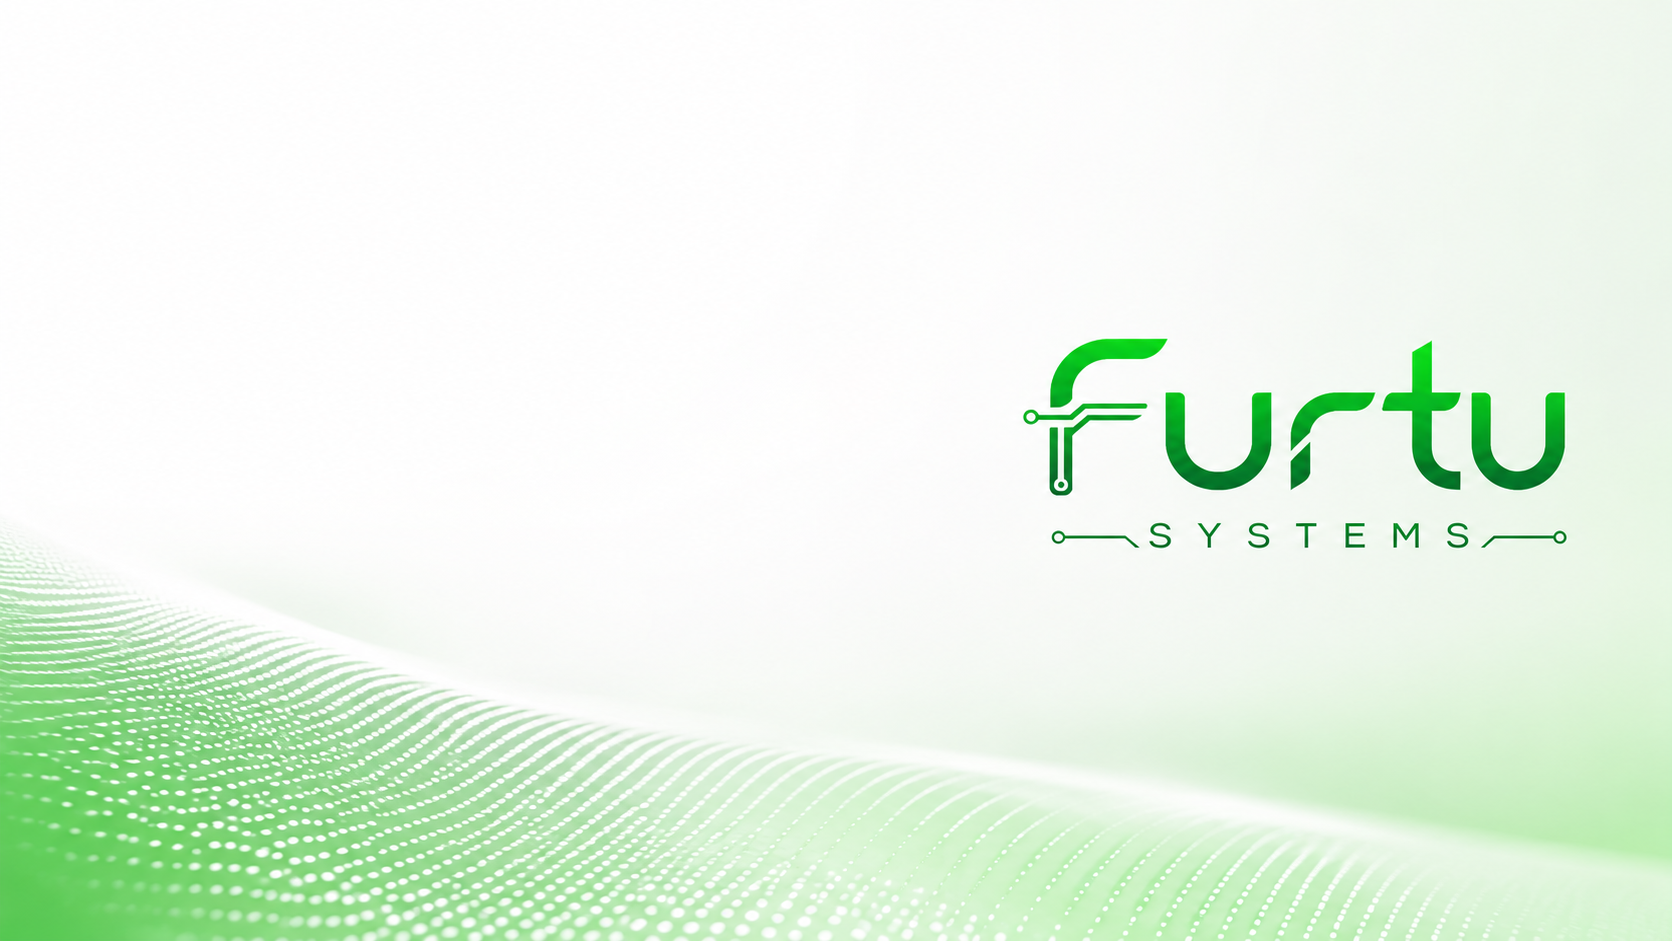
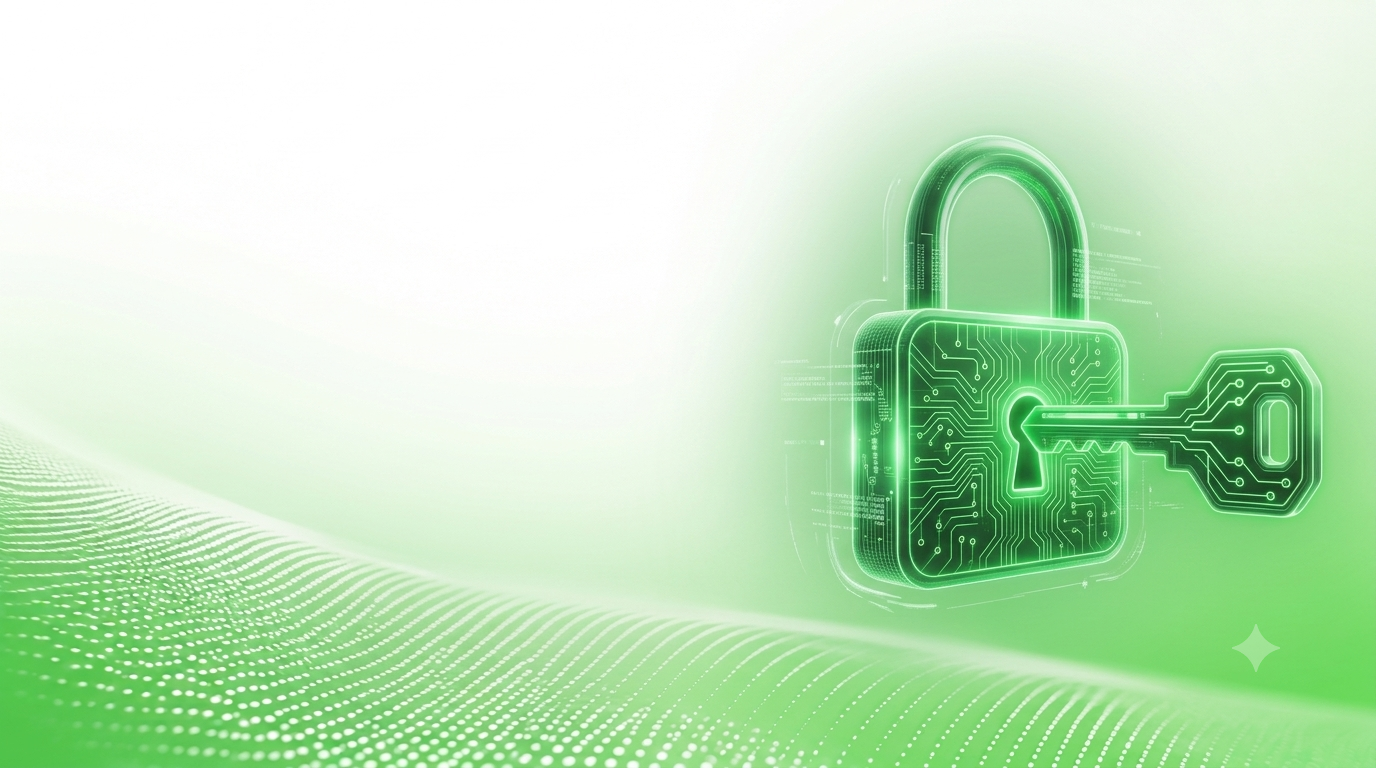
ws

diff --git a/src/index.css b/src/index.css
@@ -1290,8 +1290,9 @@
   position: absolute;
   inset: 0;
   background-image: url('./assets/furtuhero.png');
-  background-size: cover;
+  background-size: 100% auto;
   background-repeat: no-repeat;
+  background-position: center center;
   pointer-events: none;
 }
 
@@ -1319,8 +1320,8 @@
 
   .hero-bg {
     opacity: 1;
-    background-size: 82% auto;
-    background-position: 100% center;
+    background-size: 100% auto;
+    background-position: center center;
   }
 
   .hero-bg-overlay {
@@ -1383,8 +1384,8 @@
 
   .hero-bg {
     opacity: 0.1;
-    background-size: 88% auto;
-    background-position: right bottom;
+    background-size: contain;
+    background-position: right center;
   }
 
   .hero-content {